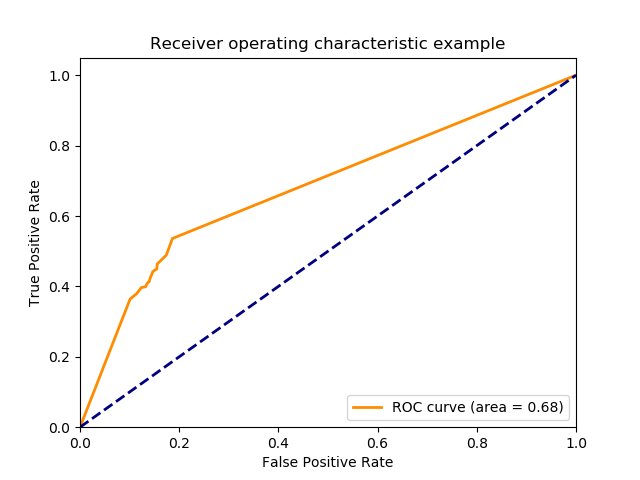
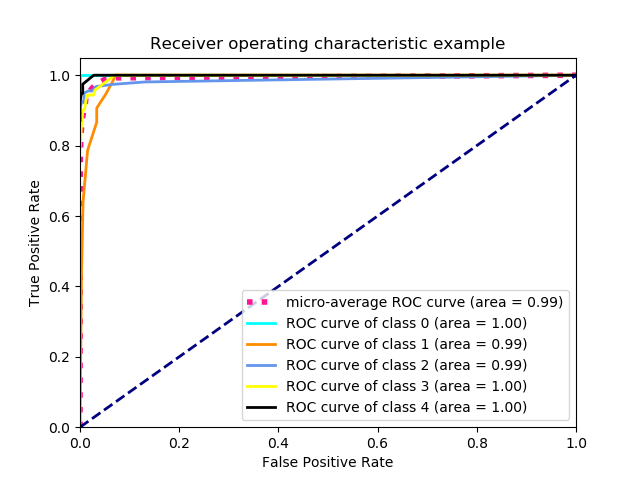
cleaning the code

diff --git a/Classification.py b/Classification.py
@@ -26,36 +26,64 @@ def roc_plot(X_train,y_train,X_test, y_test, linear, tree, knn):
     using every class ALl-against-all. Then make the average for the different classes
     and plot.   WORKING: for svm
     """
-    #convert dataframe to list(numbers instead of labels)
-    labels_test, uniques = pd.factorize(y_test.iloc[:, 0].tolist())
-    labelst_train,uniques = pd.factorize(y_train.iloc[:,0].tolist())
     # Binarize the output
-    y_test = label_binarize(labels_test, classes=[0, 1, 2, 3, 4])
-    y_train=label_binarize(labelst_train,classes=[0, 1, 2, 3, 4])
+    y_test = label_binarize(y_test, classes=[0, 1, 2, 3, 4])
+    y_train=label_binarize(y_train,classes=[0, 1, 2, 3, 4])
     n_classes = 5
-    #print(y_test, y_train)
     # Learn to predict each class against the other
-    classifier = OneVsRestClassifier(SVC(kernel="linear",probability=True, C=1,random_state=0))
-    #classifier = OneVsRestClassifier(knn)
-    print(classifier)
-    #print(y_train)
-    y_score = classifier.fit(X_train, y_train).decision_function(X_test)
-    #y_score = classifier.fit(X_train, y_train).predict_proba(X_test)
+    classifier_svm = OneVsRestClassifier(SVC(kernel="linear",probability=True, C=1,random_state=0))
+    classifier_knn = OneVsRestClassifier(knn)
+    classifier_dt=OneVsRestClassifier(tree)
+
+    #KNN roc plot
+    #y_score = classifier.fit(X_train, y_train).decision_function(X_test)
+    y_score_knn = classifier_knn.fit(X_train, y_train).predict_proba(X_test)
     # print(y_score[:,0])
     #compute ROC curve for each class
     fpr=dict()
     tpr=dict()
     roc_auc=dict()
     for i in range(n_classes):
-        fpr[i],tpr[i], _ = roc_curve(y_test[:,i],y_score[:,i])
-        #print(fpr[i], tpr[i])
+        fpr[i],tpr[i], _ = roc_curve(y_test[:,i],y_score_knn[:,i])
         roc_auc[i]=auc(fpr[i],tpr[i])
     
     #compute micro-average ROC
-    fpr["micro"],tpr["micro"],_=roc_curve(y_test.ravel(), y_score.ravel())
+    fpr["micro"],tpr["micro"],_=roc_curve(y_test.ravel(), y_score_knn.ravel())
     roc_auc["micro"] = auc(fpr["micro"], tpr["micro"])
-    #plot class 2
-    #print("hello 2")
+    plt.figure()
+    lw = 2
+    plt.figure()
+    plt.plot(fpr["micro"], tpr["micro"],
+         label='micro-average ROC curve (area = {0:0.2f})'
+               ''.format(roc_auc["micro"]),
+         color='deeppink', linestyle=':', linewidth=4)
+    
+    colors = cycle(['aqua', 'darkorange', 'cornflowerblue','yellow','black'])
+    for i, color in zip(range(n_classes), colors):
+        plt.plot(fpr[i], tpr[i], color=color, lw=lw,
+                label='ROC curve of class {0} (area = {1:0.2f})'
+                ''.format(i, roc_auc[i]))   
+    plt.plot([0, 1], [0, 1], color='navy', lw=lw, linestyle='--')
+    plt.xlim([0.0, 1.0])
+    plt.ylim([0.0, 1.05])
+    plt.xlabel('False Positive Rate')
+    plt.ylabel('True Positive Rate')
+    plt.title('Receiver operating characteristic knn')
+    plt.legend(loc="lower right")
+    plt.show()
+    #SVM roc plot
+    y_score_svm = classifier_svm.fit(X_train, y_train).decision_function(X_test)
+    #compute ROC curve for each class
+    fpr=dict()
+    tpr=dict()
+    roc_auc=dict()
+    for i in range(n_classes):
+        fpr[i],tpr[i], _ = roc_curve(y_test[:,i],y_score_svm[:,i])
+        roc_auc[i]=auc(fpr[i],tpr[i])
+    
+    #compute micro-average ROC
+    fpr["micro"],tpr["micro"],_=roc_curve(y_test.ravel(), y_score_svm.ravel())
+    roc_auc["micro"] = auc(fpr["micro"], tpr["micro"])
     plt.figure()
     lw = 2
     plt.figure()
@@ -69,17 +97,12 @@ def roc_plot(X_train,y_train,X_test, y_test, linear, tree, knn):
         plt.plot(fpr[i], tpr[i], color=color, lw=lw,
                 label='ROC curve of class {0} (area = {1:0.2f})'
                 ''.format(i, roc_auc[i]))
-        
-    
-    
-    # plt.plot(fpr[index], tpr[index], color='darkorange',
-    #         lw=lw, label='ROC curve (area = %0.2f)' % roc_auc[index])
     plt.plot([0, 1], [0, 1], color='navy', lw=lw, linestyle='--')
     plt.xlim([0.0, 1.0])
     plt.ylim([0.0, 1.05])
     plt.xlabel('False Positive Rate')
     plt.ylabel('True Positive Rate')
-    plt.title('Receiver operating characteristic example')
+    plt.title('Receiver operating characteristic svm')
     plt.legend(loc="lower right")
     plt.show()
 
@@ -180,10 +203,10 @@ def main():
     cm_knn, accuracy_knn, knn=k_nearest_neighbors(X_train, X_test, y_train, y_test)
     plot_accuracy("K-NN", cm_knn, accuracy_knn)
 
-    plot_boundaries(svm_model,tree,knn, X_test, y_test)
+    #plot_boundaries(svm_model,tree,knn, X_test, y_test)
 
     #roc plot --> takes a lot for svm
-    #roc_plot(X_train, y_train, X_test, y_test, svm_model, tree, knn)
+    roc_plot(X_train, y_train, X_test, y_test, svm_model, tree, knn)
 
 
 
